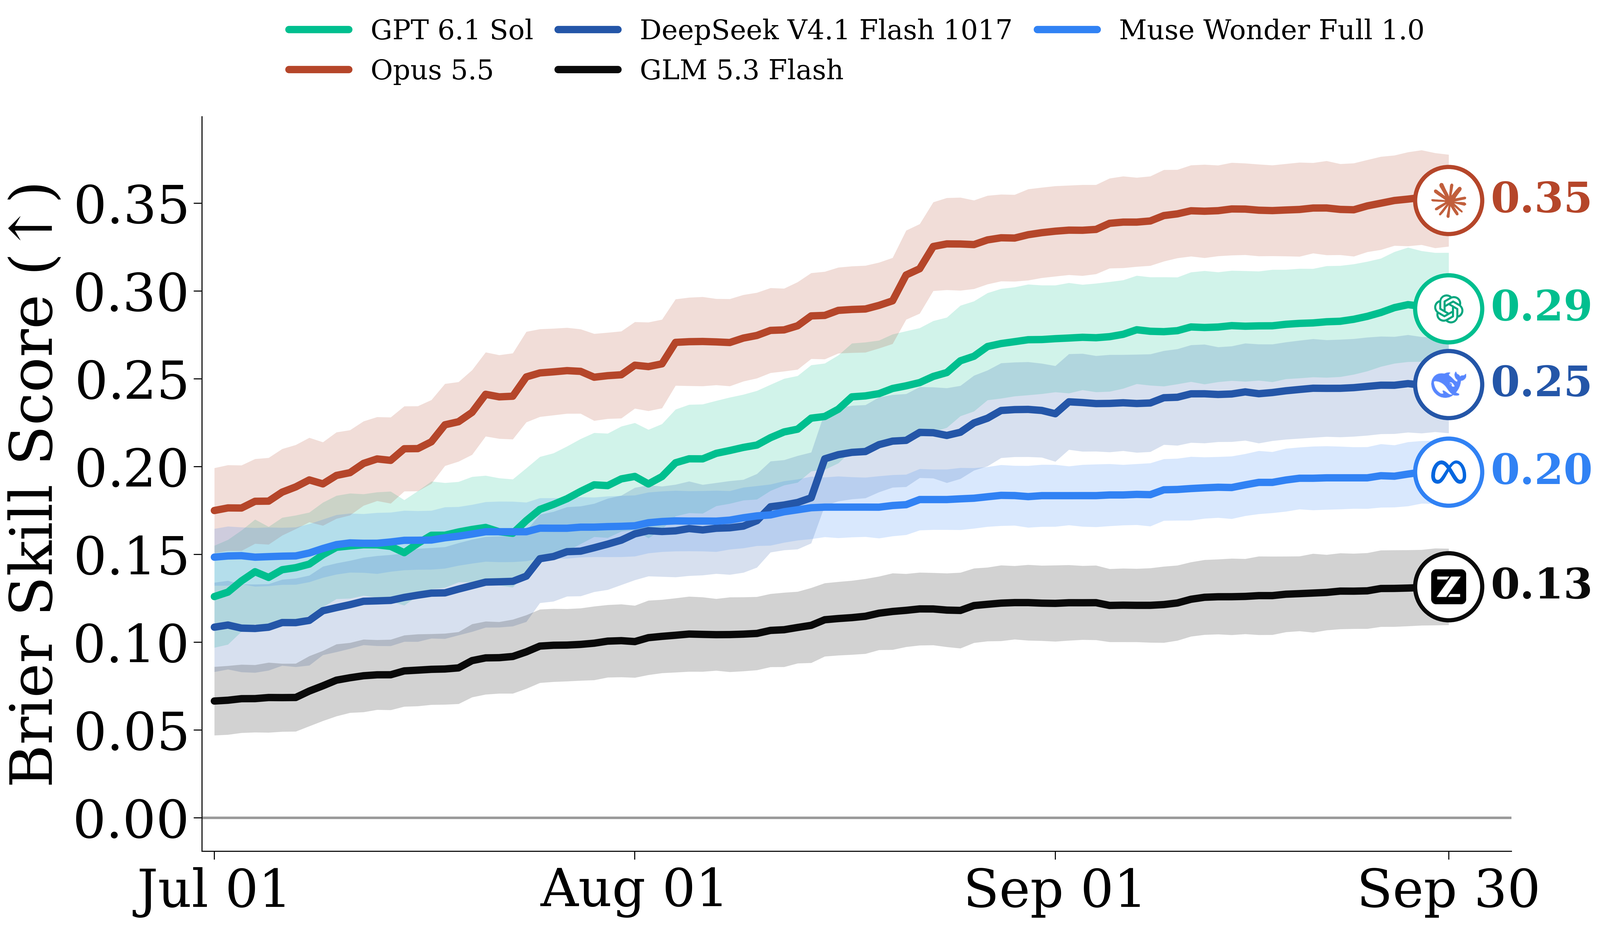
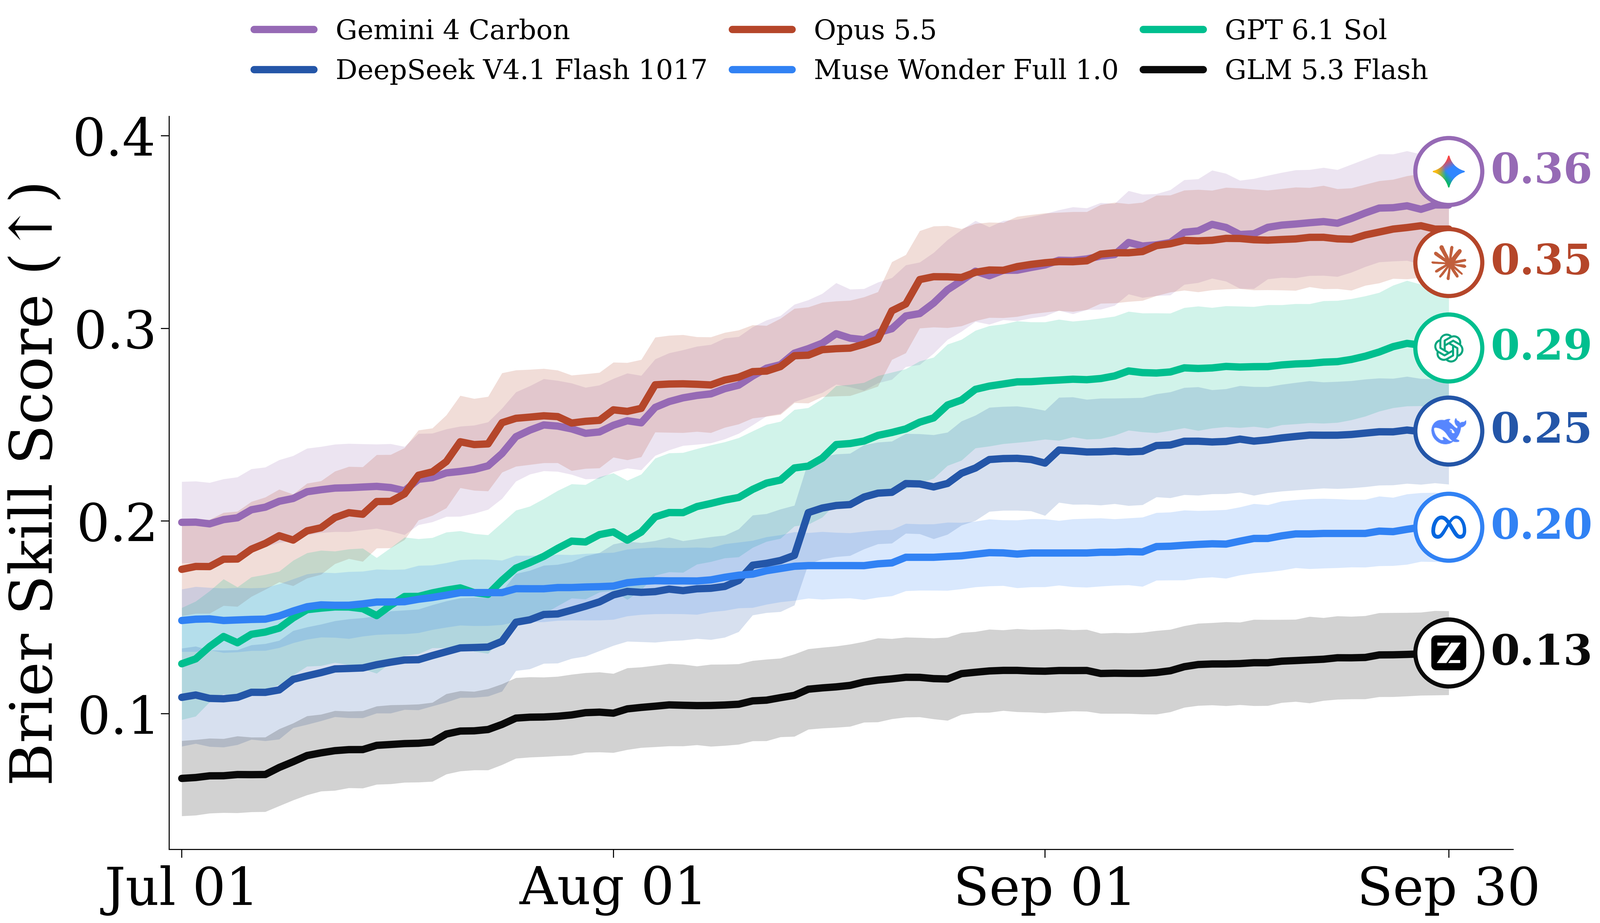
FutureSim leaderboard: add Gemini 4 Carbon to 2026 Q3
Two seeds from clean_runs_Q3v8, run in Antigravity. It ends the quarter at
53.6% top-1 accuracy and a Brier skill score of 0.364, the same numbers as the
Q3 main figure. The other five models' series are unchanged.

The line uses the figure's violet (#966AB5) and the Gemini sparkle as its end
badge. The static fallback figures and their alt text now show six agents too.

diff --git a/assets/futuresim-leaderboard.js b/assets/futuresim-leaderboard.js
@@ -20,7 +20,7 @@
   const periodButtons = Array.from(root.querySelectorAll('[data-futuresim-period]'));
 
   const SVG_NS = 'http://www.w3.org/2000/svg';
-  const LOGOS = { openai: 'openai.svg', anthropic: 'anthropic.svg', deepseek: 'deepseek.svg', zhipu: 'zhipu.png', qwen: 'qwen.svg', meta: 'meta.svg' };
+  const LOGOS = { openai: 'openai.svg', anthropic: 'anthropic.svg', deepseek: 'deepseek.svg', zhipu: 'zhipu.png', qwen: 'qwen.svg', meta: 'meta.svg', google: 'gemini.svg' };
   const minus = (text) => text.replace('-', '−');
   const fixed = (value, digits) => minus((Math.abs(value) < 0.5 * Math.pow(10, -digits) ? 0 : value).toFixed(digits));
 

diff --git a/scripts/build_futuresim_q3_chart_data.py b/scripts/build_futuresim_q3_chart_data.py
@@ -60,6 +60,10 @@ MODELS = [
         "muse-wonder-full-1.0 (Muse)", "Muse Wonder Full 1.0", "muse-wonder-full-1.0", "meta", "Muse", "#3182F4",
         [f"muse_aljazeera2026Q3v8_wonderfull_max_exa_r{i:02d}" for i in range(2)],
     ),
+    (
+        "gemini-4-carbon (Antigravity)", "Gemini 4 Carbon", "gemini-4-carbon", "google", "Antigravity", "#966AB5",
+        [f"agy_aljazeera2026Q3v8_gemini4carbon_high_exa_r{i:02d}" for i in range(2)],
+    ),
 ]
 
 METRICS = {"accuracy": ("accuracy", 3), "brier": ("avg_brier", 5)}

diff --git a/futuresim/index.md b/futuresim/index.md
@@ -67,8 +67,8 @@ stylesheet: /futuresim/questions/questions.css
       </div>
       <div class="futuresim-chart" data-futuresim-chart data-logos="{{ '/assets/logos/' | relative_url }}">
         <noscript>
-          <img src="{{ '/futuresim/figures/q3/top1_accuracy.png' | relative_url }}" alt="Top-1 accuracy trajectories for five agents evaluated on FutureSim 2026 Q3.">
-          <img src="{{ '/futuresim/figures/q3/brier_skill_score.png' | relative_url }}" alt="Brier skill score trajectories for five agents evaluated on FutureSim 2026 Q3.">
+          <img src="{{ '/futuresim/figures/q3/top1_accuracy.png' | relative_url }}" alt="Top-1 accuracy trajectories for six agents evaluated on FutureSim 2026 Q3.">
+          <img src="{{ '/futuresim/figures/q3/brier_skill_score.png' | relative_url }}" alt="Brier skill score trajectories for six agents evaluated on FutureSim 2026 Q3.">
         </noscript>
       </div>
       <div class="futuresim-q2-writeup">
